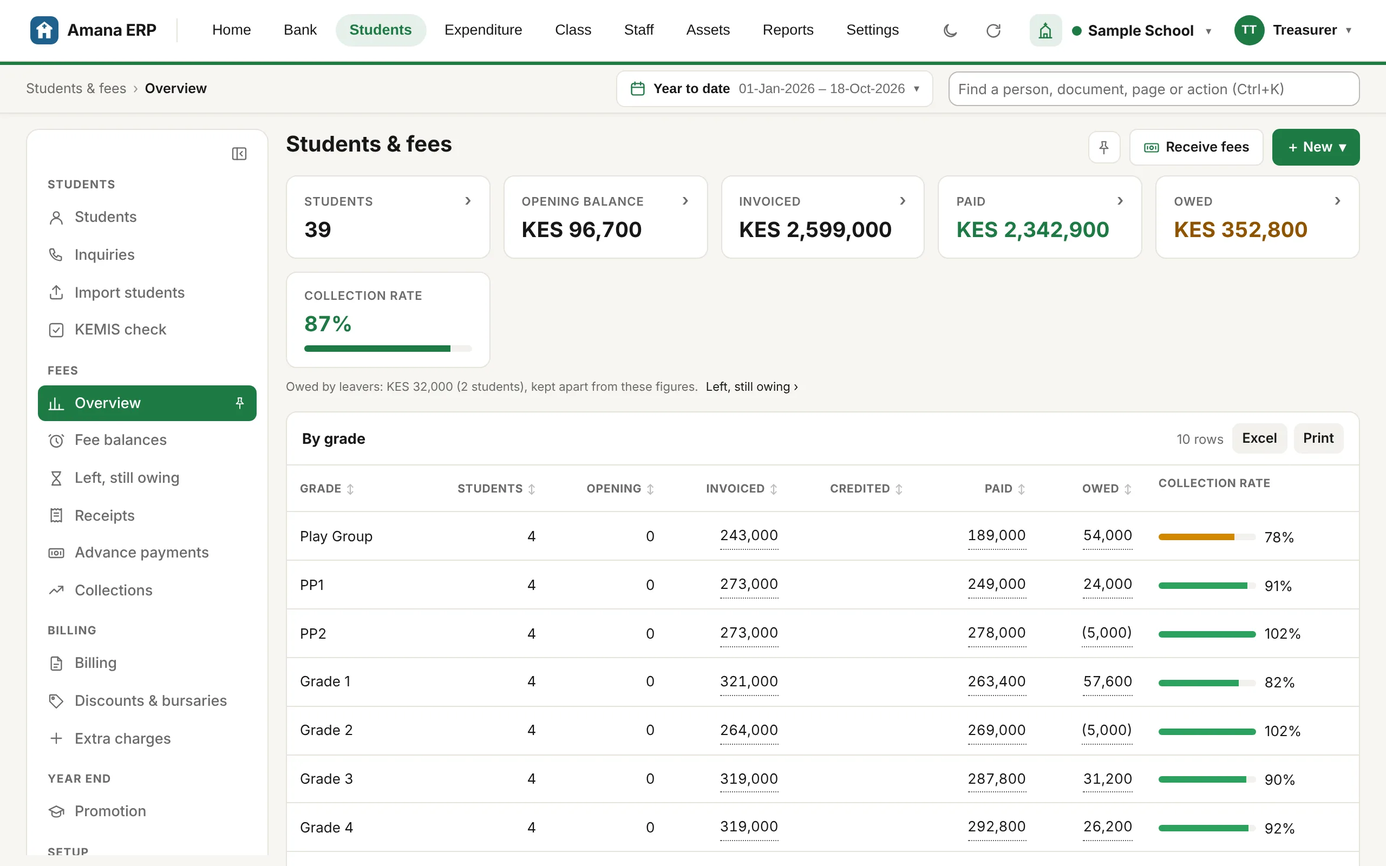
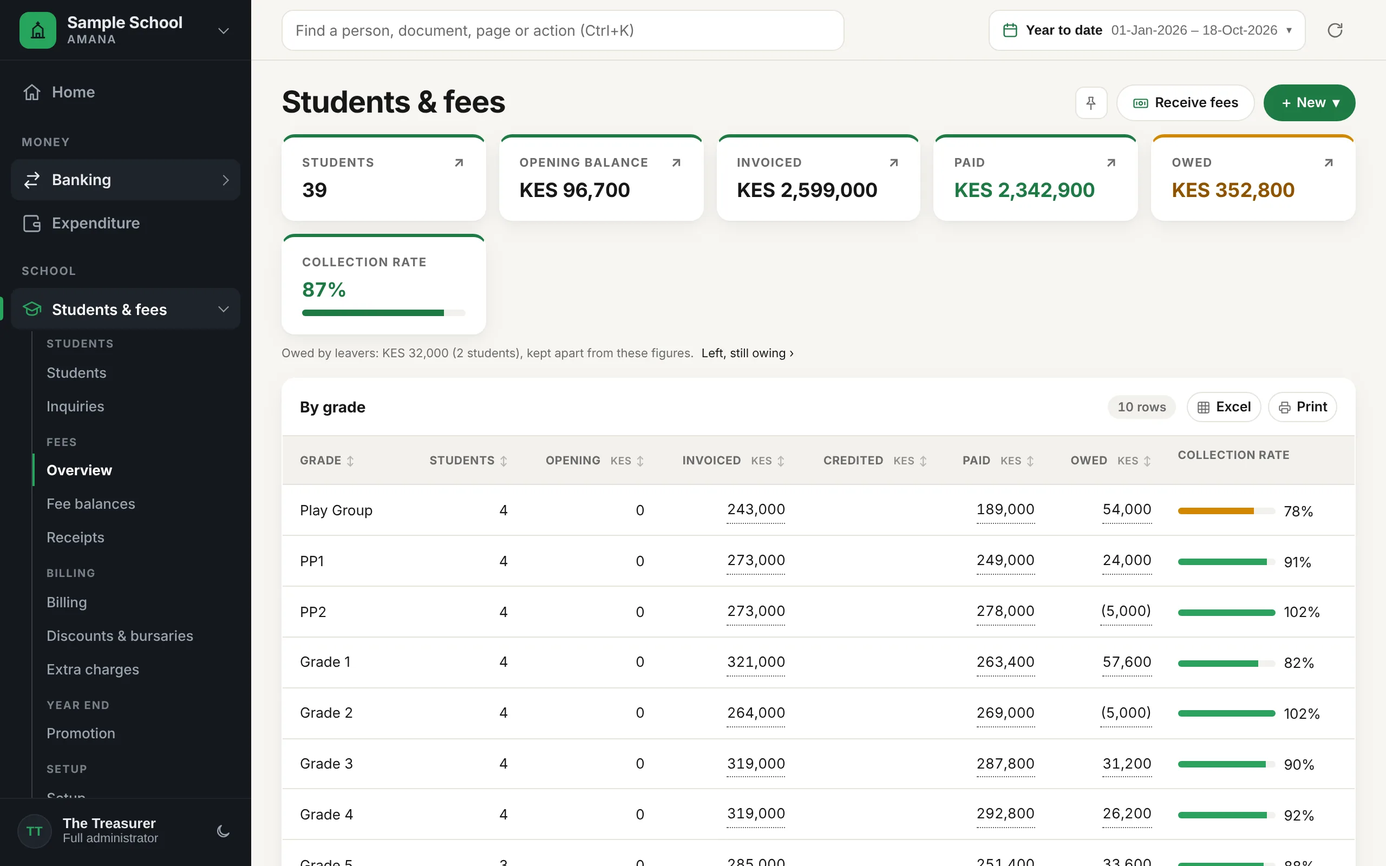
Fresh screenshots of Amana as it looks now, and its current features
Church, School and Rental pages: new screenshots of the redesigned app (the
menu down the left, the dark rail), taken from the preview's made-up books;
four key screens and a phone view each. Feature lists brought up to date,
including Rental's owners and landlords, head leases (rent in, rent out),
costs by unit and other currencies. The phone screenshot's frame now keeps
its width.

Claude-Session: https://claude.ai/code/session_01X9VPnH5sRmY7N8wb2jy9TK

diff --git a/rental/index.html b/rental/index.html
@@ -4,10 +4,10 @@
 <meta charset="utf-8">
 <meta name="viewport" content="width=device-width, initial-scale=1, viewport-fit=cover">
 <title>Amana for Rental</title>
-<meta name="description" content="Amana runs rental property: buildings and units, tenants and leases, monthly rent, deposits, arrears, repairs, short stays and owner statements, with M-Pesa matched to the unit.">
+<meta name="description" content="Amana runs rental property: buildings and units, tenants and leases, owners and landlords, head leases and sub-lets, short stays, repairs and costs by unit.">
 <meta property="og:title" content="Amana for Rental">
-<meta property="og:description" content="Amana runs rental property: buildings and units, tenants and leases, monthly rent, deposits, arrears, repairs, short stays and owner statements, with M-Pesa matched to the unit.">
-<meta property="og:image" content="https://amana-erp.com/images/rental/overview.webp">
+<meta property="og:description" content="Amana runs rental property: buildings and units, tenants and leases, owners and landlords, head leases and sub-lets, short stays, repairs and costs by unit.">
+<meta property="og:image" content="https://amana-erp.com/images/rental/rent-overview.webp">
 <meta property="og:url" content="https://amana-erp.com/rental/">
 <meta property="og:type" content="website">
 <link rel="icon" href="/images/amana.svg" type="image/svg+xml">
@@ -38,32 +38,32 @@
 	<section class="hero with-shot">
 		<div class="wrap">
 			<p class="eyebrow">Amana for Rental</p>
-			<h1>Every unit, every tenant, every month's rent.</h1>
-			<p class="lede">See each building's units at a glance, bill the month's rent in one go, and match each tenant's M-Pesa payment to their unit. For your own buildings, or ones you manage for other owners.</p>
+			<h1>Every unit, tenant, owner and lease in one place.</h1>
+			<p class="lede">Your own buildings, buildings you manage for owners, and property you rent in and sub-let: rent billed, payments matched, costs tracked by unit, and every owner's statement ready.</p>
 			<div class="actions">
 				<a class="btn btn-white" href="#contact">Talk to us</a>
 				<a class="btn btn-outline" href="#screens">See it at work</a>
 			</div>
 		</div>
 	</section>
-	<div class="hero-shot"><div class="wrap"><div class="frame"><img src="/images/rental/overview.webp" alt="The rent overview: occupancy, rent roll, this month&#x27;s collection, arrears and deposits held" width="1280" height="800"></div></div></div>
+	<div class="hero-shot"><div class="wrap"><div class="frame"><img src="/images/rental/rent-overview.webp" alt="Rent and tenants: occupancy, rent roll, this month&#x27;s collection, arrears and deposits held" width="1280" height="800"></div></div></div>
 
 	<section class="band">
 		<div class="wrap">
 			<div class="section-head">
 				<h2 class="light">Made for landlords and property managers</h2>
-				<p class="lede">From a single block of flats to buildings managed for several owners.</p>
+				<p class="lede">From a single block of flats to a portfolio managed for several owners.</p>
 			</div>
 			<div class="features">
-				<article class="feature"><span class="area">Units</span><h3>Every unit at a glance</h3><p>Each building&#x27;s units colour-coded: paid up, overdue, lease ending or vacant.</p></article>
-				<article class="feature"><span class="area">Overview</span><h3>The month in one page</h3><p>Occupancy, rent roll, how much of this month&#x27;s rent is in, arrears and deposits held.</p></article>
-				<article class="feature"><span class="area">Tenants</span><h3>Tenants and what they owe</h3><p>One payment clears the oldest months first; see who is behind and by how long.</p></article>
-				<article class="feature"><span class="area">Leases</span><h3>Leases and rent changes</h3><p>Rent increases from a chosen date, leases ending soon, and a printable rent roll.</p></article>
-				<article class="feature"><span class="area">Reminders</span><h3>Reminders that go out</h3><p>SMS or email to tenants who are behind.</p></article>
-				<article class="feature"><span class="area">Repairs</span><h3>Repair jobs</h3><p>A board of repair jobs, who pays, and billing the tenant&#x27;s share.</p></article>
-				<article class="feature"><span class="area">Short stays</span><h3>Short stays</h3><p>A bookings calendar, arrivals and departures, occupancy and revenue.</p></article>
-				<article class="feature"><span class="area">Owners</span><h3>Property for other owners</h3><p>Monthly owner statements, management fees, rental income tax and payouts.</p></article>
-				<article class="feature"><span class="area">Bank</span><h3>M-Pesa matched to the unit</h3><p>Rent paid to your Pay Bill comes in matched to the tenant&#x27;s unit. Tick and post.</p></article>
+				<article class="feature"><span class="area">Properties</span><h3>Every unit at a glance</h3><p>Each building&#x27;s units as cards by state: current, overdue, lease ending or vacant, with who owns the building.</p></article>
+				<article class="feature"><span class="area">Rent</span><h3>The month in one page</h3><p>Rent roll, this month&#x27;s collection, arrears and deposits held, and what needs attention: tenants behind, leases ending, increases due.</p></article>
+				<article class="feature"><span class="area">Leases</span><h3>Leases with their terms</h3><p>Rent increases from a chosen date, service charge, and utilities from meter readings.</p></article>
+				<article class="feature"><span class="area">Owners</span><h3>Property for other owners</h3><p>Management agreements, monthly owner statements, fees, rental tax and payouts, and a landlord&#x27;s own login.</p></article>
+				<article class="feature"><span class="area">Head leases</span><h3>Rent in, rent out</h3><p>Property rented from a landlord and sub-let: the landlord&#x27;s bills raised for you, and the margin month by month.</p></article>
+				<article class="feature"><span class="area">Costs</span><h3>Income and costs by unit</h3><p>Repairs, furniture and other costs kept against each property and unit, so each one&#x27;s margin is clear.</p></article>
+				<article class="feature"><span class="area">Short stays</span><h3>Short stays and bookings</h3><p>A bookings calendar, arrivals and departures, and calendar sync with booking sites and your own website.</p></article>
+				<article class="feature"><span class="area">Repairs</span><h3>Repairs and maintenance</h3><p>Repair jobs and planned maintenance, billed to the tenant or the owner where they should pay.</p></article>
+				<article class="feature"><span class="area">Currencies</span><h3>Other currencies</h3><p>Leases and nightly rates in US dollars, with exchange rates fetched, imported or typed in.</p></article>
 			</div>
 		</div>
 	</section>
@@ -76,16 +76,24 @@
 			</div>
 			<div class="screens">
 				<div class="screen-row">
-					<div><span class="num">01</span><h3>A building&#x27;s units</h3><p>Colour-coded by state, with each tenant, their rent and what they owe.</p></div>
-					<div class="frame"><img src="/images/rental/units.webp" alt="A building&#x27;s units, colour-coded by state" width="1280" height="800" loading="lazy"></div>
+					<div><span class="num">01</span><h3>A building&#x27;s units</h3><p>Units as cards coloured by state, with occupancy, what is outstanding and overdue, and who owns the building.</p></div>
+					<div class="frame"><img src="/images/rental/properties.webp" alt="A building&#x27;s units, coloured by state" width="1280" height="800" loading="lazy"></div>
 				</div>
 				<div class="screen-row">
-					<div><span class="num">02</span><h3>Every tenant&#x27;s balance</h3><p>Each tenant&#x27;s units, when they last paid, what they owe and how much is overdue.</p></div>
+					<div><span class="num">02</span><h3>Rent in, rent out</h3><p>A property rented from a landlord and sub-let: what the tenants were billed, what is owed to the landlord, and the margin.</p></div>
+					<div class="frame"><img src="/images/rental/head-lease.webp" alt="A head lease&#x27;s rent in and rent out" width="1280" height="800" loading="lazy"></div>
+				</div>
+				<div class="screen-row">
+					<div><span class="num">03</span><h3>An owner&#x27;s page</h3><p>What is held for the owner, the repairs reserve, what is due to them, their agreement and their units.</p></div>
+					<div class="frame"><img src="/images/rental/owner.webp" alt="An owner&#x27;s page" width="1280" height="800" loading="lazy"></div>
+				</div>
+				<div class="screen-row">
+					<div><span class="num">04</span><h3>Every tenant&#x27;s balance</h3><p>Each tenant&#x27;s units, last payment, what they owe and how much is overdue.</p></div>
 					<div class="frame"><img src="/images/rental/tenants.webp" alt="Tenants with what they owe" width="1280" height="800" loading="lazy"></div>
 				</div>
 				<div class="screen-row phone-row">
-					<div><span class="num">03</span><h3>On a phone too</h3><p>The property manager&#x27;s home page on a phone.</p></div>
-					<div class="frame phone"><img src="/images/rental/today-phone.webp" alt="The property manager&#x27;s home page on a phone" width="390" height="844" loading="lazy"></div>
+					<div><span class="num">05</span><h3>On a phone too</h3><p>The property manager&#x27;s Home on a phone.</p></div>
+					<div class="frame phone"><img src="/images/rental/home-phone.webp" alt="The property manager&#x27;s Home on a phone" width="390" height="844" loading="lazy"></div>
 				</div>
 			</div>
 		</div>
@@ -93,7 +101,7 @@
 
 	<section class="band">
 		<div class="wrap">
-			<h2 class="light">Run a church or school too?</h2>
+			<h2 class="light">Also from Amana</h2>
 			<div class="others">
 				<a href="/church/"><b>Amana for Churches</b><span>Members, giving, services, pledges and building projects.</span><span class="go">Explore →</span></a>
 				<a href="/school/"><b>Amana for Schools</b><span>Fees and billing, the class register, marks and report cards.</span><span class="go">Explore →</span></a>

diff --git a/church/index.html b/church/index.html
@@ -4,10 +4,10 @@
 <meta charset="utf-8">
 <meta name="viewport" content="width=device-width, initial-scale=1, viewport-fit=cover">
 <title>Amana for Churches</title>
-<meta name="description" content="Amana keeps a church&#x27;s members, giving, Sunday services, pledges, building projects and accounts in one place, with M-Pesa and bank lines matched to the member.">
+<meta name="description" content="Amana runs a church&#x27;s giving, members, Sunday collections, building projects and accounts in one place, with every bank and M-Pesa line matched to the member who gave.">
 <meta property="og:title" content="Amana for Churches">
-<meta property="og:description" content="Amana keeps a church&#x27;s members, giving, Sunday services, pledges, building projects and accounts in one place, with M-Pesa and bank lines matched to the member.">
-<meta property="og:image" content="https://amana-erp.com/images/church/today.webp">
+<meta property="og:description" content="Amana runs a church&#x27;s giving, members, Sunday collections, building projects and accounts in one place, with every bank and M-Pesa line matched to the member who gave.">
+<meta property="og:image" content="https://amana-erp.com/images/church/home.webp">
 <meta property="og:url" content="https://amana-erp.com/church/">
 <meta property="og:type" content="website">
 <link rel="icon" href="/images/amana.svg" type="image/svg+xml">
@@ -39,14 +39,14 @@
 		<div class="wrap">
 			<p class="eyebrow">Amana for Churches</p>
 			<h1>Every shilling given, accounted for.</h1>
-			<p class="lede">Members and districts, tithes and offerings, Sunday collections, pledges and building projects, with each M-Pesa gift matched to the member who gave it. The treasurer opens one page and sees what needs doing.</p>
+			<p class="lede">Giving, members, Sunday collections and building projects in one place, with every bank and M-Pesa line matched to the person who gave it. The treasurer opens one page and sees what needs doing.</p>
 			<div class="actions">
 				<a class="btn btn-white" href="#contact">Talk to us</a>
 				<a class="btn btn-outline" href="#screens">See it at work</a>
 			</div>
 		</div>
 	</section>
-	<div class="hero-shot"><div class="wrap"><div class="frame"><img src="/images/church/today.webp" alt="The treasurer&#x27;s home page: giving this month, bills due, what needs doing and the cash in each account" width="1280" height="800"></div></div></div>
+	<div class="hero-shot"><div class="wrap"><div class="frame"><img src="/images/church/home.webp" alt="The treasurer&#x27;s Home: members, attendance, giving this month, bills due, what needs doing and the cash in every account" width="1280" height="800"></div></div></div>
 
 	<section class="band">
 		<div class="wrap">
@@ -55,15 +55,15 @@
 				<p class="lede">Districts, Sunday services, pledges and committees are part of the system, not added on.</p>
 			</div>
 			<div class="features">
-				<article class="feature"><span class="area">Today</span><h3>What needs doing, first</h3><p>The home page lists what is waiting, most urgent first, each with its own button: record, pay, match.</p></article>
-				<article class="feature"><span class="area">Members</span><h3>The member register</h3><p>Districts, households, groups and committees, offices, and what each member has given this year.</p></article>
-				<article class="feature"><span class="area">Members</span><h3>Member cards with QR codes</h3><p>Print cards ten to a sheet. Scan one to open the member, or to check them in at an event.</p></article>
-				<article class="feature"><span class="area">Sunday</span><h3>Services and collections</h3><p>Count Sunday&#x27;s collection by district and check it against the bank deposit, found by its slip number.</p></article>
-				<article class="feature"><span class="area">Giving</span><h3>Tithes and offerings by district</h3><p>Giving against each district&#x27;s budget for the year, month-by-month trends and new givers.</p></article>
-				<article class="feature"><span class="area">Giving</span><h3>Giving statements</h3><p>Each member&#x27;s page shows a year of giving; their statement prints as a thank-you letter.</p></article>
-				<article class="feature"><span class="area">Pledges</span><h3>Pledges kept track of</h3><p>What each member pledged against what they have actually given.</p></article>
-				<article class="feature"><span class="area">Building</span><h3>Building projects</h3><p>Pledges, contributions by material, and a public project page people can give through.</p></article>
-				<article class="feature"><span class="area">Bank</span><h3>M-Pesa and bank matched</h3><p>Every unmatched bank and M-Pesa line comes with a suggestion. Tick the right ones and post them together.</p></article>
+				<article class="feature"><span class="area">Home</span><h3>What needs doing, first</h3><p>The day&#x27;s work in order, each with its own button: pay, record, allocate. The cash in every account beside it.</p></article>
+				<article class="feature"><span class="area">Banking</span><h3>Every line matched</h3><p>Bank and M-Pesa statements read for you: each line comes with a suggestion, the sure ones post in one go, and nothing is posted twice.</p></article>
+				<article class="feature"><span class="area">M-Pesa</span><h3>Your own Pay Bill, live</h3><p>Payments to the church&#x27;s Pay Bill arrive as they are made, matched to the member, with a thank-you text if you want one.</p></article>
+				<article class="feature"><span class="area">Sunday</span><h3>Collections checked</h3><p>Count sheets by district, checked against the bank deposit found by its slip number, and approved by the treasurer.</p></article>
+				<article class="feature"><span class="area">Giving</span><h3>Giving by member and district</h3><p>Each district&#x27;s giving against its budget for the year, and statements members can be given.</p></article>
+				<article class="feature"><span class="area">Membership</span><h3>Members and their care</h3><p>Districts, households, groups and committees, member cards, transfers, visitors, welfare, and who may need a visit.</p></article>
+				<article class="feature"><span class="area">Services</span><h3>Sundays organised</h3><p>Orders of service, the duty rota with reminders, hymns, and the children&#x27;s ministry&#x27;s classes and attendance.</p></article>
+				<article class="feature"><span class="area">Building</span><h3>Build Together</h3><p>Building projects with pledges, contributions by material, a public page to give through, and progress texts to pledgers.</p></article>
+				<article class="feature"><span class="area">Spending</span><h3>Money out, approved</h3><p>Requisitions, expense vouchers, petty cash and supplier bills through approvals; payroll, assets, budgets and the financial statements.</p></article>
 			</div>
 		</div>
 	</section>
@@ -76,16 +76,24 @@
 			</div>
 			<div class="screens">
 				<div class="screen-row">
-					<div><span class="num">01</span><h3>Giving by district</h3><p>Tithes and offerings by district: who gave, how much, and progress against each district&#x27;s budget for the year.</p></div>
+					<div><span class="num">01</span><h3>Payments recognised for you</h3><p>Each M-Pesa and bank payment arrives already recognised: member giving, rent, an event fee. Post the sure ones in one click.</p></div>
+					<div class="frame"><img src="/images/church/bank-matching.webp" alt="Banking: M-Pesa payments with what each one is" width="1280" height="800" loading="lazy"></div>
+				</div>
+				<div class="screen-row">
+					<div><span class="num">02</span><h3>Giving by district</h3><p>Tithes and offerings by district, against each district&#x27;s budget for the year.</p></div>
 					<div class="frame"><img src="/images/church/giving-by-district.webp" alt="Tithes and offerings by district against budget" width="1280" height="800" loading="lazy"></div>
 				</div>
 				<div class="screen-row">
-					<div><span class="num">02</span><h3>The member register</h3><p>District, household, office, groups and committees, and what each member has given this year.</p></div>
+					<div><span class="num">03</span><h3>The member register</h3><p>Each member&#x27;s office, district and household, and the groups and committees they serve on.</p></div>
 					<div class="frame"><img src="/images/church/members.webp" alt="The member register" width="1280" height="800" loading="lazy"></div>
 				</div>
+				<div class="screen-row">
+					<div><span class="num">04</span><h3>Building projects, in the open</h3><p>Money raised against the target, what is still pledged, and each contribution by member and material.</p></div>
+					<div class="frame"><img src="/images/church/build-together.webp" alt="Build Together: a building project&#x27;s pledges and contributions" width="1280" height="800" loading="lazy"></div>
+				</div>
 				<div class="screen-row phone-row">
-					<div><span class="num">03</span><h3>On a phone too</h3><p>The church&#x27;s home page on a phone.</p></div>
-					<div class="frame phone"><img src="/images/church/today-phone.webp" alt="The church&#x27;s home page on a phone" width="390" height="844" loading="lazy"></div>
+					<div><span class="num">05</span><h3>On a phone too</h3><p>The treasurer&#x27;s Home on a phone.</p></div>
+					<div class="frame phone"><img src="/images/church/home-phone.webp" alt="The treasurer&#x27;s Home on a phone" width="390" height="844" loading="lazy"></div>
 				</div>
 			</div>
 		</div>
@@ -93,7 +101,7 @@
 
 	<section class="band">
 		<div class="wrap">
-			<h2 class="light">Run a school or rental property too?</h2>
+			<h2 class="light">Also from Amana</h2>
 			<div class="others">
 				<a href="/school/"><b>Amana for Schools</b><span>Fees and billing, the class register, marks and report cards.</span><span class="go">Explore →</span></a>
 				<a href="/rental/"><b>Amana for Rental</b><span>Buildings, units, tenants, leases and the month's rent.</span><span class="go">Explore →</span></a>

diff --git a/school/index.html b/school/index.html
@@ -4,9 +4,9 @@
 <meta charset="utf-8">
 <meta name="viewport" content="width=device-width, initial-scale=1, viewport-fit=cover">
 <title>Amana for Schools</title>
-<meta name="description" content="Amana bills a school&#x27;s term from its fee structures, tracks collections and who owes by grade, and runs the class register, marks and report cards.">
+<meta name="description" content="Amana bills a school&#x27;s term from its price list, follows up balances with guardians, and runs the class register, results and report cards.">
 <meta property="og:title" content="Amana for Schools">
-<meta property="og:description" content="Amana bills a school&#x27;s term from its fee structures, tracks collections and who owes by grade, and runs the class register, marks and report cards.">
+<meta property="og:description" content="Amana bills a school&#x27;s term from its price list, follows up balances with guardians, and runs the class register, results and report cards.">
 <meta property="og:image" content="https://amana-erp.com/images/school/students-fees.webp">
 <meta property="og:url" content="https://amana-erp.com/school/">
 <meta property="og:type" content="website">
@@ -38,32 +38,32 @@
 	<section class="hero with-shot">
 		<div class="wrap">
 			<p class="eyebrow">Amana for Schools</p>
-			<h1>Fees billed, collected and followed up.</h1>
-			<p class="lede">Bill a whole term from the fee structures, see who owes by grade, and remind guardians by SMS. The classroom side is there too: the register, marks and report cards.</p>
+			<h1>Bill the term. Collect the fees. Print the report cards.</h1>
+			<p class="lede">Fees billed from one price list, balances followed up with guardians, and the classroom's register, results and report cards, all from the same records.</p>
 			<div class="actions">
 				<a class="btn btn-white" href="#contact">Talk to us</a>
 				<a class="btn btn-outline" href="#screens">See it at work</a>
 			</div>
 		</div>
 	</section>
-	<div class="hero-shot"><div class="wrap"><div class="frame"><img src="/images/school/students-fees.webp" alt="Students and fees by grade: invoiced, paid, still owed and the collection rate" width="1280" height="800"></div></div></div>
+	<div class="hero-shot"><div class="wrap"><div class="frame"><img src="/images/school/students-fees.webp" alt="Students and fees: invoiced, paid, owed and the collection rate for the school and each grade" width="1280" height="800"></div></div></div>
 
 	<section class="band">
 		<div class="wrap">
 			<div class="section-head">
 				<h2 class="light">Made for the bursar and the classroom</h2>
-				<p class="lede">Fees, discounts and report cards in one system, so the office and the teachers work from the same records.</p>
+				<p class="lede">The office and the teachers work from the same records, so the fee balance and the report card always agree.</p>
 			</div>
 			<div class="features">
-				<article class="feature"><span class="area">Fees</span><h3>Fees by grade at a glance</h3><p>Invoiced, paid, owed and the collection rate for every grade.</p></article>
-				<article class="feature"><span class="area">Billing</span><h3>Bill the term in one go</h3><p>Term invoices from the fee structures, with transport routes and extra charges. Billing again only adds what changed.</p></article>
-				<article class="feature"><span class="area">Discounts</span><h3>Discounts and bursaries</h3><p>Sibling, staff child, bursary and scholarship discounts taken off each term invoice, with what was given up.</p></article>
-				<article class="feature"><span class="area">Collections</span><h3>Who owes, and reminders</h3><p>Fee balances and statements, and reminders to guardians by SMS or email.</p></article>
-				<article class="feature"><span class="area">Leavers</span><h3>Pupils who left owing</h3><p>Kept apart from the school&#x27;s own figures, so collections stay honest.</p></article>
-				<article class="feature"><span class="area">Classroom</span><h3>The class register</h3><p>Everyone starts as present. Mark who is absent, late or excused, and tell their guardians.</p></article>
-				<article class="feature"><span class="area">Exams</span><h3>Marks and results</h3><p>A marks sheet per grade and exam, then term results with average, level and class position.</p></article>
-				<article class="feature"><span class="area">Reports</span><h3>Report cards</h3><p>Printed or emailed to guardians, with marks, attendance and the teachers&#x27; comments.</p></article>
-				<article class="feature"><span class="area">Admissions</span><h3>Inquiries to admission</h3><p>Follow each inquiry through to the student&#x27;s admission.</p></article>
+				<article class="feature"><span class="area">Fees</span><h3>Fees by grade at a glance</h3><p>Invoiced, paid, owed and the collection rate for every grade; each figure opens the students behind it.</p></article>
+				<article class="feature"><span class="area">Billing</span><h3>Bring bills up to date</h3><p>Each term billed from one price list a year, with transport, lunch, extra charges and part terms. Only the differences are added.</p></article>
+				<article class="feature"><span class="area">Discounts</span><h3>Discounts and bursaries</h3><p>Sibling, staff child, bursary and scholarship discounts taken off each term&#x27;s invoice, with what each one gave up.</p></article>
+				<article class="feature"><span class="area">Collections</span><h3>Balances followed up</h3><p>Who owes and since when, reminders to guardians by SMS, and fee statements. Leavers who still owe are kept apart.</p></article>
+				<article class="feature"><span class="area">Admissions</span><h3>Inquiries to admission</h3><p>Every inquiry followed from first call to admission, with follow-ups and the assessment fee.</p></article>
+				<article class="feature"><span class="area">Classroom</span><h3>The daily register</h3><p>Everyone starts present; mark who is absent, late or excused, and tell their guardians.</p></article>
+				<article class="feature"><span class="area">Exams</span><h3>Marks and results</h3><p>Marks entered per class and exam, then results with averages, levels and positions.</p></article>
+				<article class="feature"><span class="area">Reports</span><h3>Report cards</h3><p>Printed or emailed to guardians, with marks, levels, comments, attendance and the fee balance.</p></article>
+				<article class="feature"><span class="area">Staff</span><h3>Staff and payroll</h3><p>Payroll with the statutory deductions, leave and appraisals, alongside banking and spending.</p></article>
 			</div>
 		</div>
 	</section>
@@ -76,15 +76,23 @@
 			</div>
 			<div class="screens">
 				<div class="screen-row">
-					<div><span class="num">01</span><h3>Marks, straight in</h3><p>One sheet per class and exam, a column per subject, typed straight in.</p></div>
-					<div class="frame"><img src="/images/school/marks.webp" alt="The marks sheet for a class and exam" width="1280" height="800" loading="lazy"></div>
+					<div><span class="num">01</span><h3>Who owes, and since when</h3><p>Fee balances, largest first, with the guardian and when it started. Tick and remind, or remind everyone.</p></div>
+					<div class="frame"><img src="/images/school/fee-balances.webp" alt="Fee balances with guardians and owed-since dates" width="1280" height="800" loading="lazy"></div>
 				</div>
 				<div class="screen-row">
-					<div><span class="num">02</span><h3>Report cards ready to print</h3><p>Each subject&#x27;s marks, term percentage and level, class position, and the class and head teacher&#x27;s comments.</p></div>
+					<div><span class="num">02</span><h3>Discounts and bursaries</h3><p>Each discount with its sponsor, and what it gave up this year.</p></div>
+					<div class="frame"><img src="/images/school/discounts-bursaries.webp" alt="Discounts and bursaries" width="1280" height="800" loading="lazy"></div>
+				</div>
+				<div class="screen-row">
+					<div><span class="num">03</span><h3>Class results</h3><p>Each pupil&#x27;s subject scores, average, level and position for the term.</p></div>
+					<div class="frame"><img src="/images/school/results.webp" alt="Class results for a grade and term" width="1280" height="800" loading="lazy"></div>
+				</div>
+				<div class="screen-row">
+					<div><span class="num">04</span><h3>Report cards ready to print</h3><p>Opener, mid-term and end-term marks, levels, the teachers&#x27; comments, position and next term&#x27;s start date.</p></div>
 					<div class="frame"><img src="/images/school/report-card.webp" alt="A printed report card" width="1280" height="800" loading="lazy"></div>
 				</div>
 				<div class="screen-row phone-row">
-					<div><span class="num">03</span><h3>On a phone too</h3><p>The fees overview on a phone.</p></div>
+					<div><span class="num">05</span><h3>On a phone too</h3><p>The fees overview on a phone.</p></div>
 					<div class="frame phone"><img src="/images/school/students-fees-phone.webp" alt="The fees overview on a phone" width="390" height="844" loading="lazy"></div>
 				</div>
 			</div>
@@ -93,7 +101,7 @@
 
 	<section class="band">
 		<div class="wrap">
-			<h2 class="light">Run a church or rental property too?</h2>
+			<h2 class="light">Also from Amana</h2>
 			<div class="others">
 				<a href="/church/"><b>Amana for Churches</b><span>Members, giving, services, pledges and building projects.</span><span class="go">Explore →</span></a>
 				<a href="/rental/"><b>Amana for Rental</b><span>Buildings, units, tenants, leases and the month's rent.</span><span class="go">Explore →</span></a>

diff --git a/index.html b/index.html
@@ -102,14 +102,14 @@
 			</article>
 			<article class="product">
 				<nav class="rules" aria-label="Products"><a href="/church/">Amana for Churches</a><a href="/school/">Amana for Schools</a><a href="/rental/" aria-current="true">Amana for Rental</a><a href="/garihub/">GariHub</a></nav>
-				<h2 class="light">Every unit, every tenant, every month&#x27;s rent.</h2>
+				<h2 class="light">Every unit, tenant, owner and lease.</h2>
 				<div class="product-body">
 					<div>
-						<p class="lead">See each building&#x27;s units at a glance, bill the month&#x27;s rent in one go, and match each payment to the tenant&#x27;s unit.</p>
-						<ul class="ruled-list"><li>Buildings and units: let, vacant, overdue or lease ending</li><li>Tenants and leases, with rent changes and deposits held</li><li>Monthly billing, arrears, and reminders to tenants</li><li>Repairs, short stays and statements for other owners</li></ul>
+						<p class="lead">Your own buildings, buildings managed for owners, and property rented in and sub-let: rent billed, payments matched, costs tracked by unit.</p>
+						<ul class="ruled-list"><li>Buildings and units by state: let, overdue, lease ending or vacant</li><li>Owners&#x27; statements, fees and payouts, and a landlord&#x27;s own login</li><li>Head leases: property rented in and sub-let, with its margin</li><li>Short stays, repairs and costs by unit</li></ul>
 						<a class="btn btn-dark" href="/rental/">Explore Amana for Rental</a>
 					</div>
-					<div class="frame"><img src="/images/rental/units.webp" alt="A building&#x27;s units, colour-coded by state" width="1280" height="800" loading="lazy"></div>
+					<div class="frame"><img src="/images/rental/properties.webp" alt="A building&#x27;s units, coloured by state" width="1280" height="800" loading="lazy"></div>
 				</div>
 			</article>
 			<article class="product">

diff --git a/css/site.css b/css/site.css
@@ -114,7 +114,7 @@ body::before {
 /* Screenshot frames */
 .frame { border-radius: 16px; overflow: hidden; background: #fff; box-shadow: 0 24px 60px -30px rgba(11, 13, 16, 0.45), 0 0 0 1px rgba(11, 13, 16, 0.07); }
 .frame img { width: 100%; }
-.frame.phone { max-width: 300px; border-radius: 34px; padding: 9px; background: var(--black); }
+.frame.phone { width: 100%; max-width: 300px; border-radius: 34px; padding: 9px; background: var(--black); }
 .frame.phone img { border-radius: 26px; }
 
 /* "Made for" strip */
